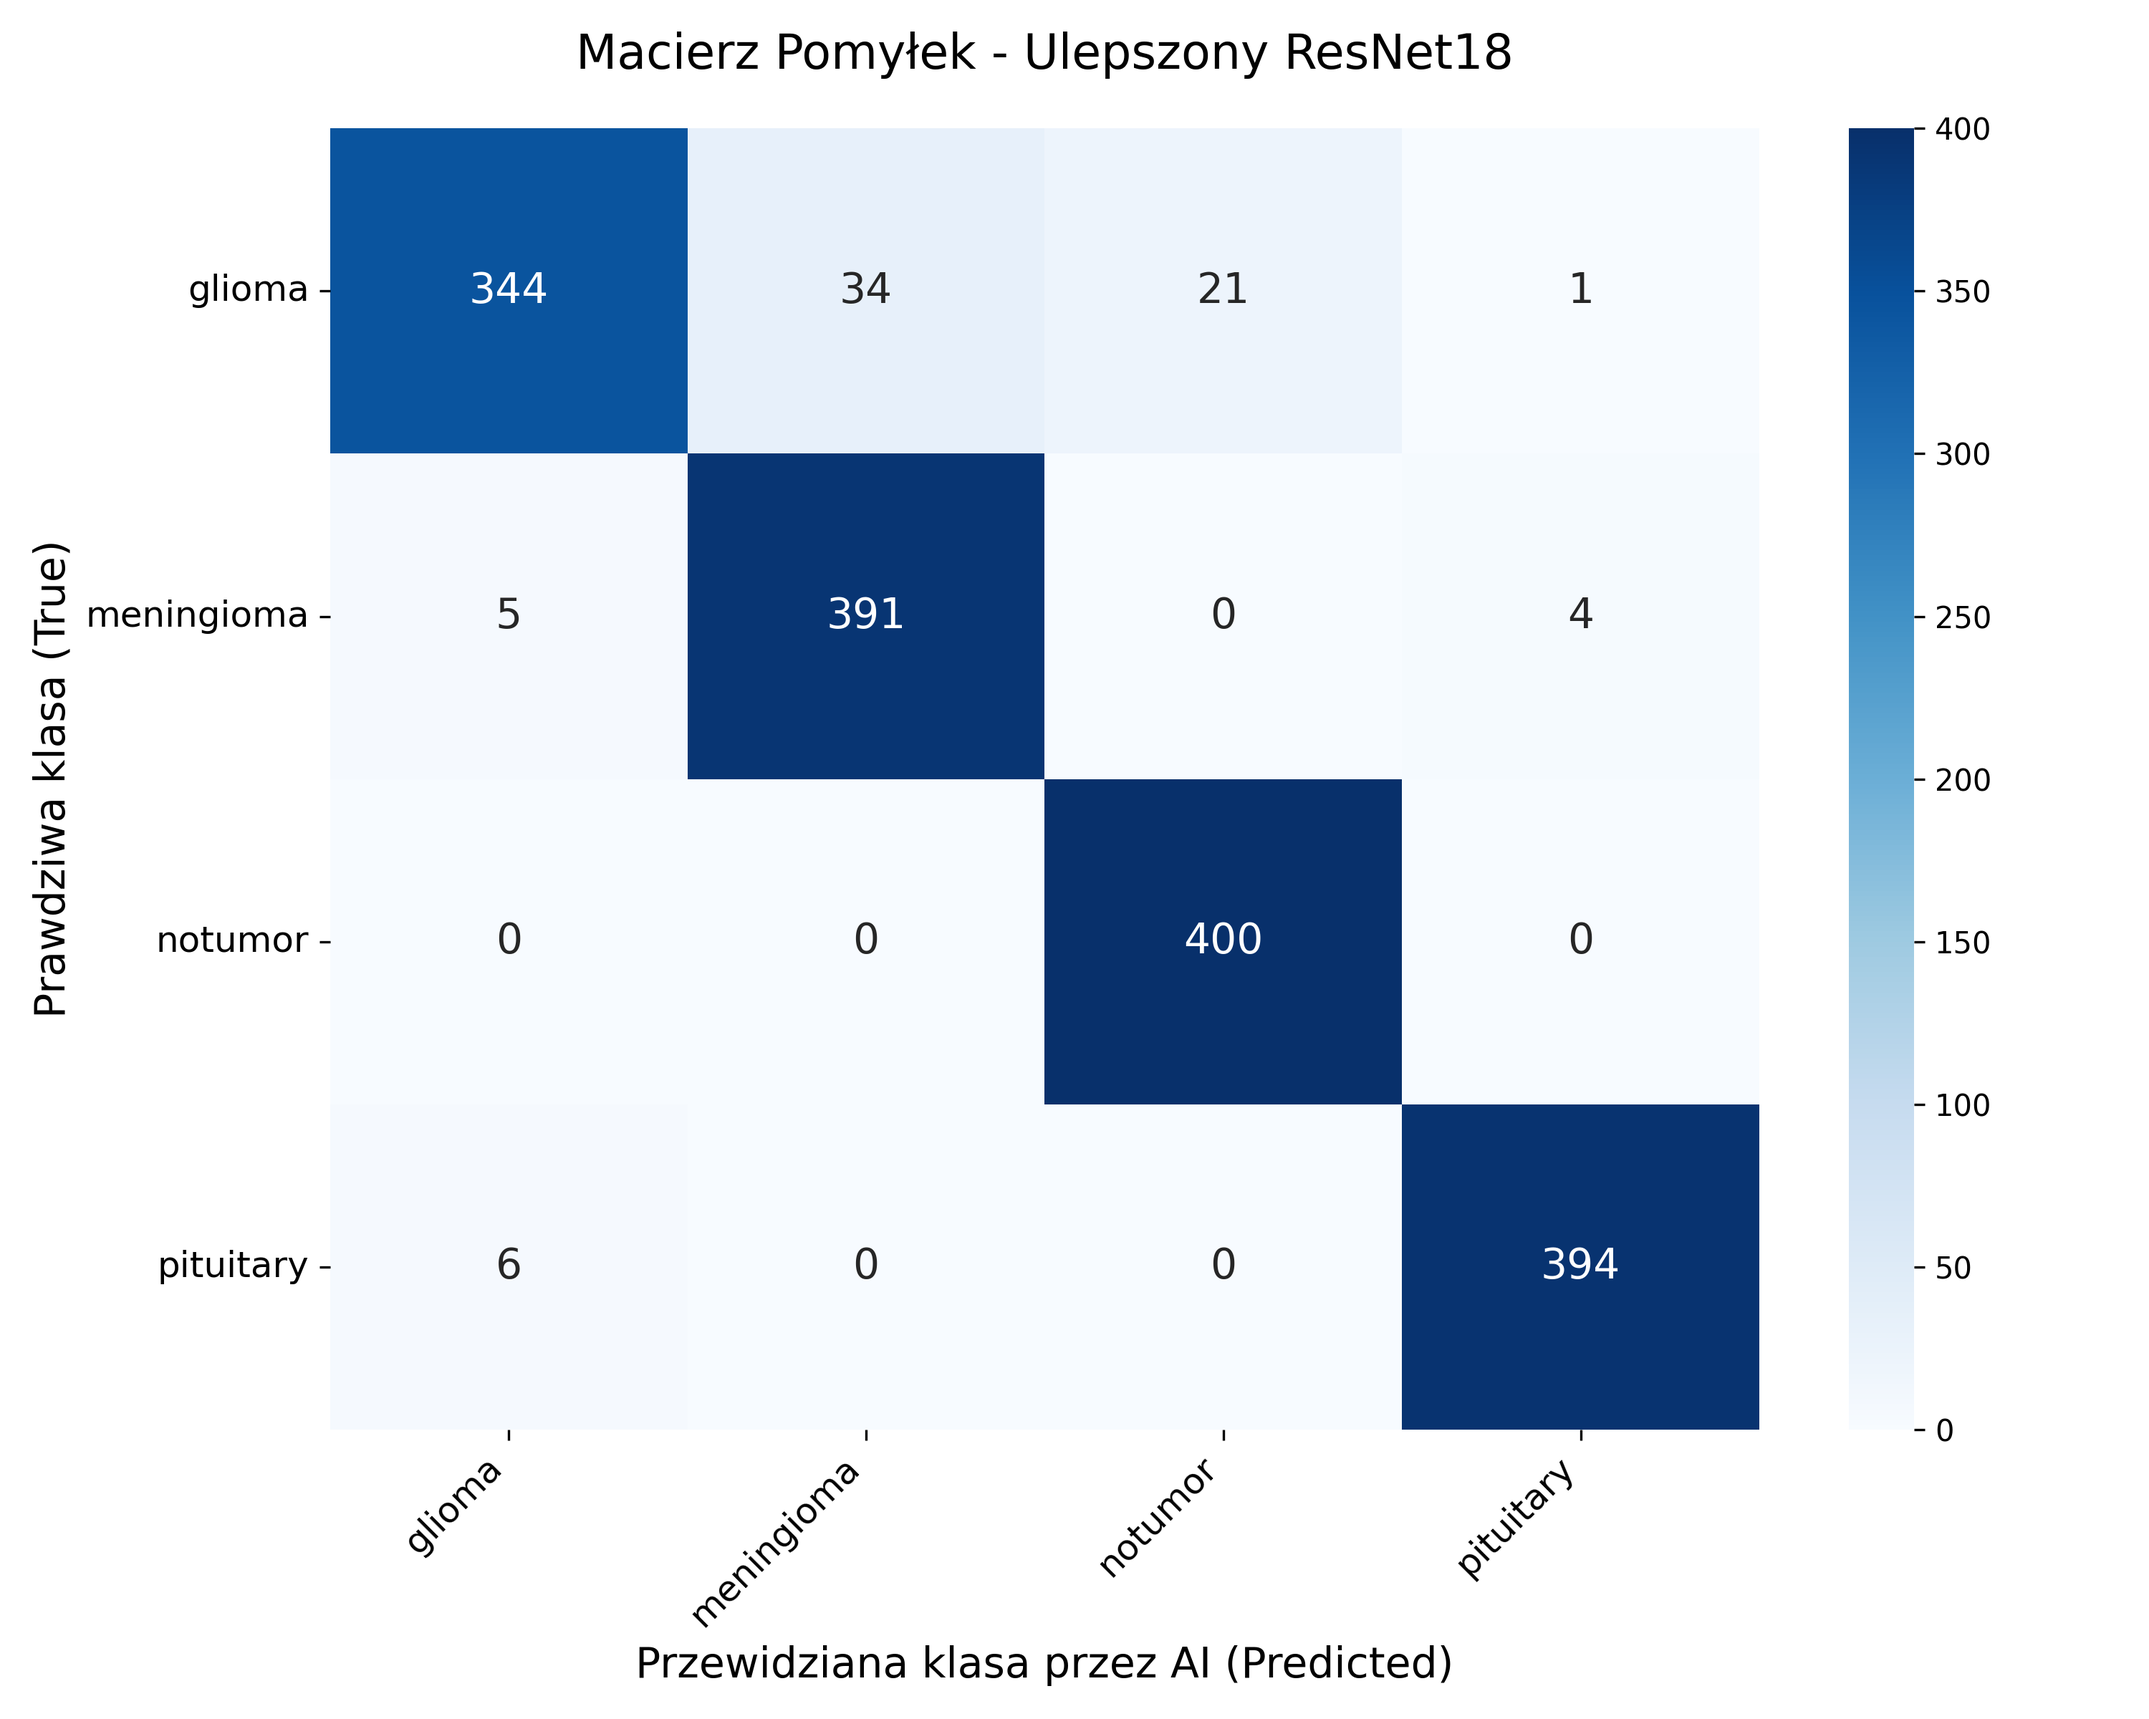
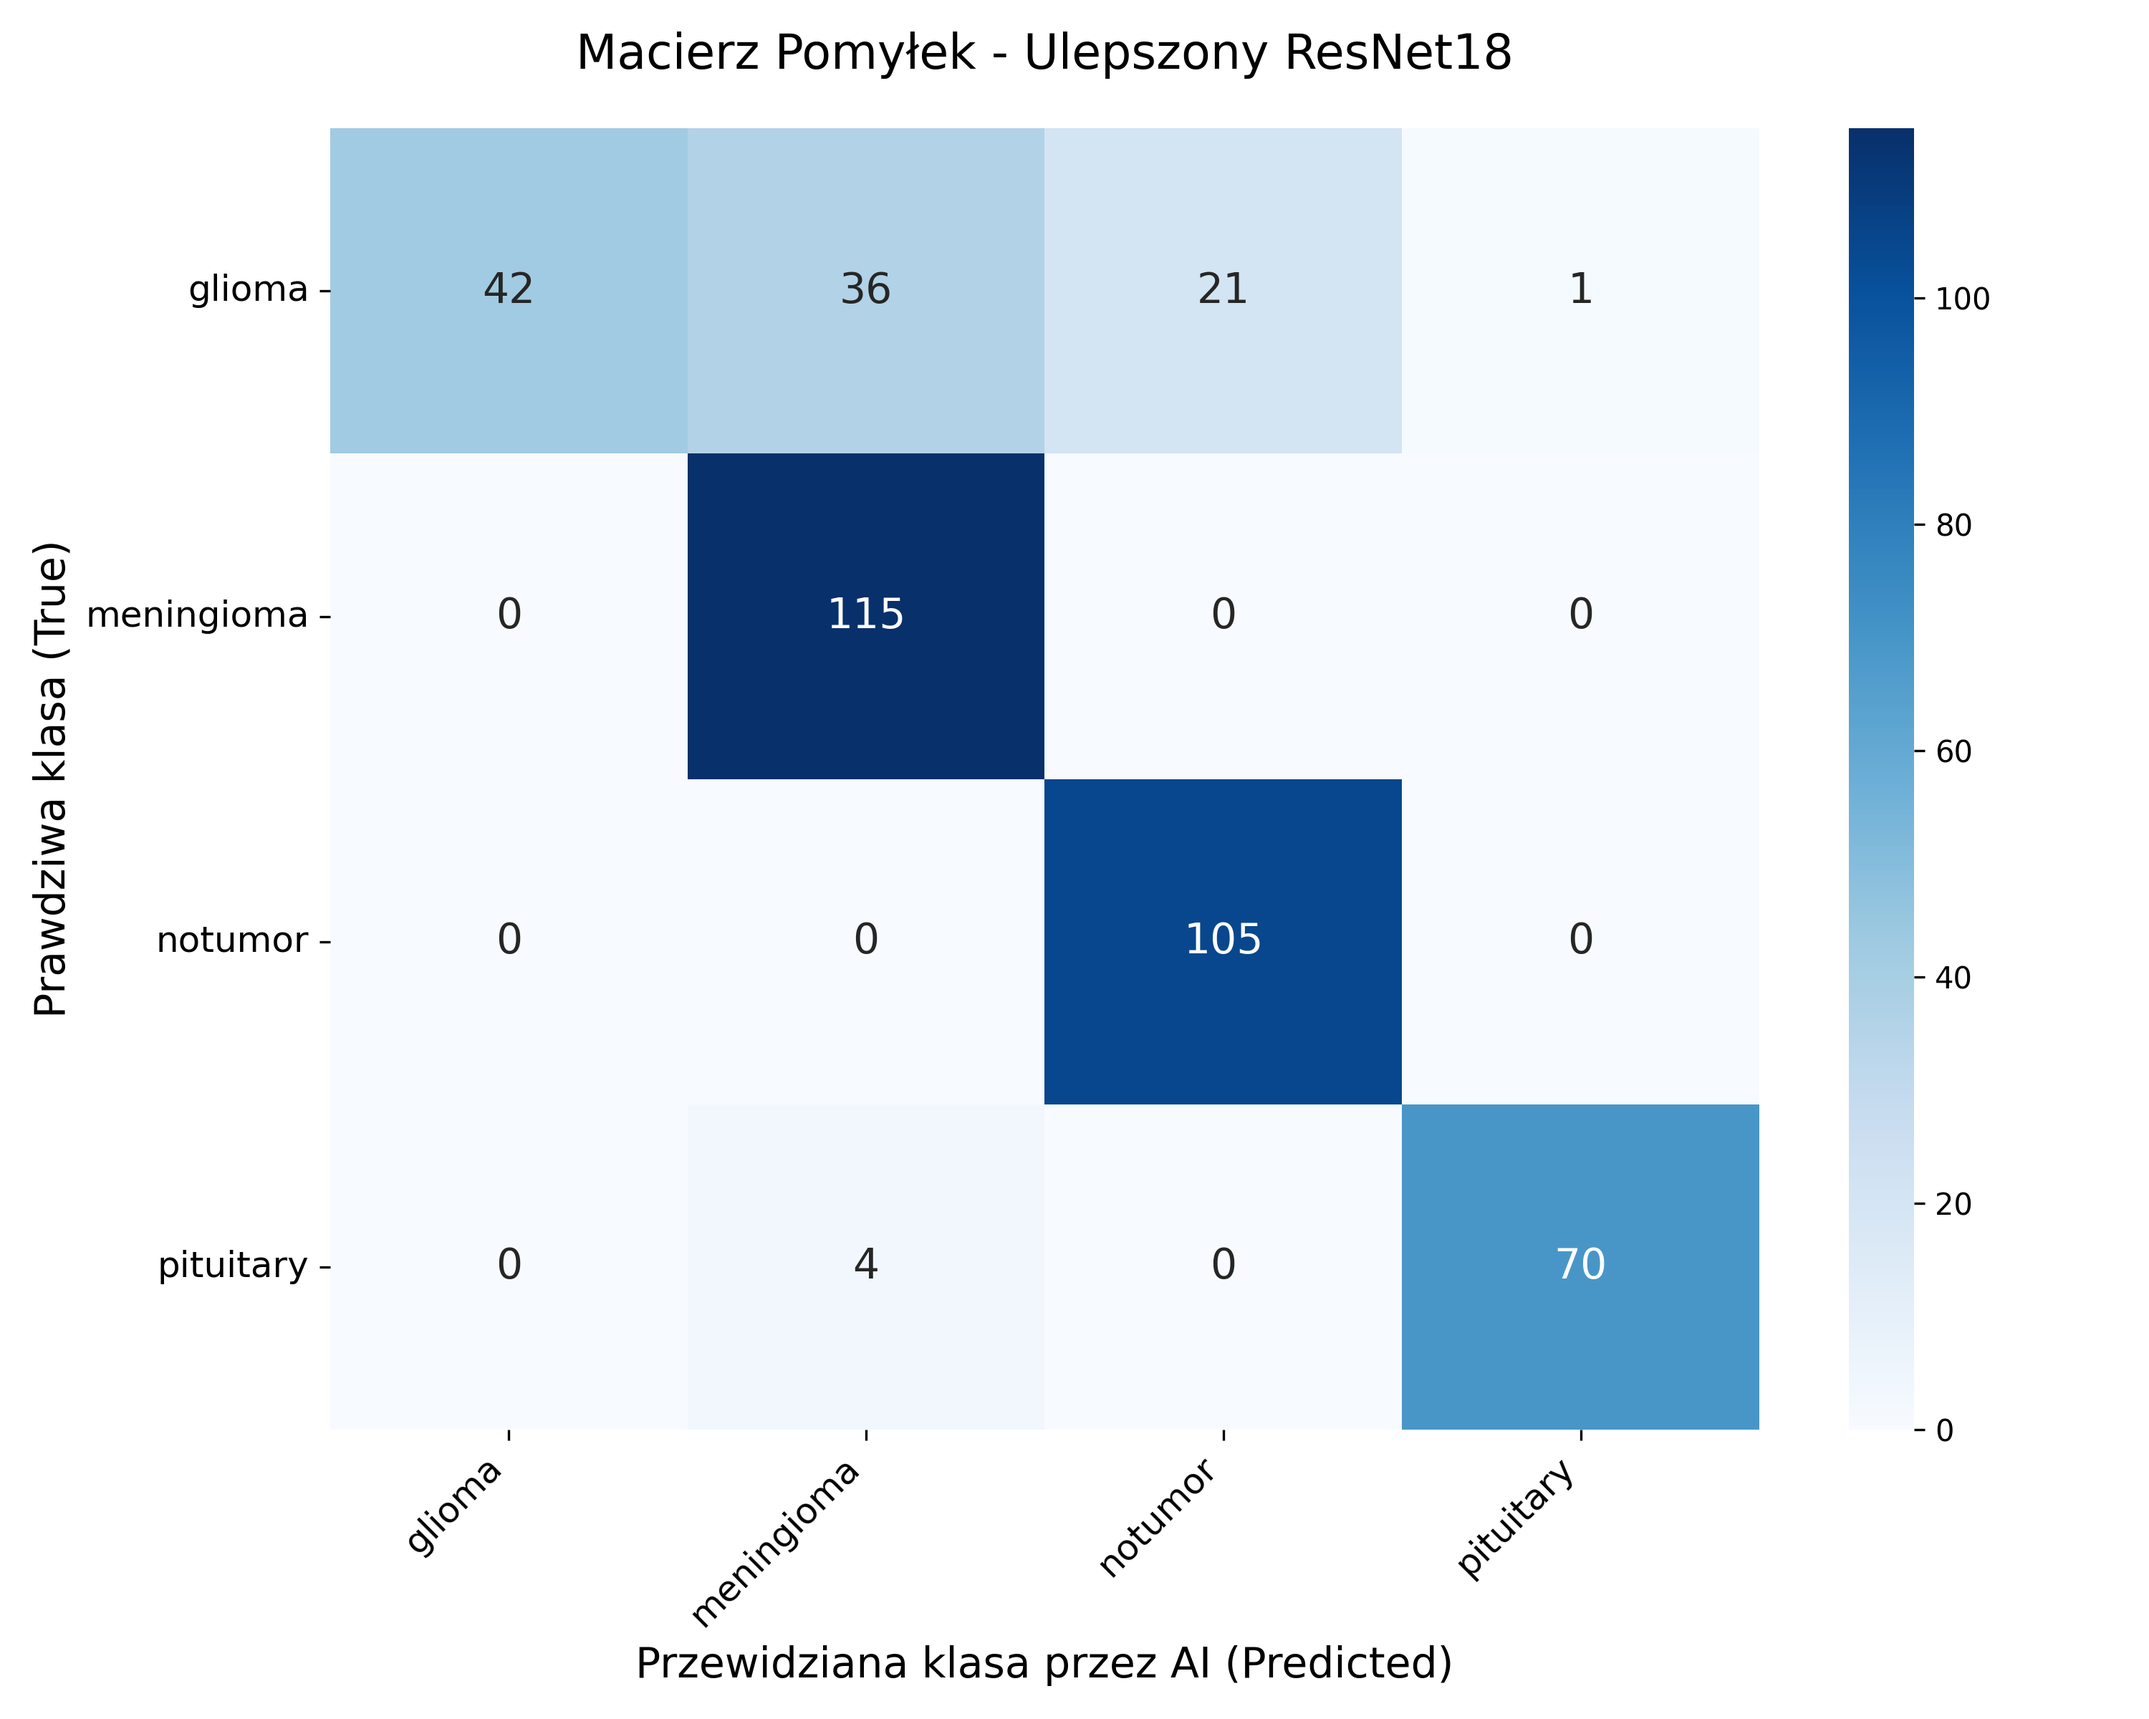
added vgg

diff --git a/ensemble_test.py b/ensemble_test.py
@@ -1,0 +1,143 @@
+import torch
+import torch.nn as nn
+import torch.nn.functional as F
+import torchvision.transforms.functional as F_t
+from torchvision import datasets, transforms, models
+import matplotlib.pyplot as plt
+import seaborn as sns
+from sklearn.metrics import confusion_matrix
+import numpy as np
+
+# 1. Konfiguracja
+device = torch.device("mps" if torch.backends.mps.is_available() else "cpu")
+print("Uruchamianie konsylium AI (ResNet18 + VGG16). Proszę czekać...")
+
+# 2. Baza danych (Tylko konwersja na tensor i kolory)
+transform_base = transforms.Compose([
+    transforms.Resize((512, 512)),
+    transforms.ToTensor(),
+    transforms.Normalize(mean=[0.485, 0.456, 0.406], std=[0.229, 0.224, 0.225])
+])
+
+test_dir = './BrainTumorData/Testing' 
+test_dataset = datasets.ImageFolder(test_dir, transform=transform_base)
+test_loader = torch.utils.data.DataLoader(test_dataset, batch_size=16, shuffle=False)
+
+nazwy_klas = test_dataset.classes
+print(f"Rozpoznane klasy: {nazwy_klas}")
+
+# ==========================================
+# 3. Wczytywanie Modelu 1: ResNet18 (512x512)
+# ==========================================
+print("Budzenie doktora ResNet18...")
+model_resnet = models.resnet18(weights=None)
+num_features_res = model_resnet.fc.in_features
+model_resnet.fc = nn.Sequential(
+    nn.Dropout(p=0.5),
+    nn.Linear(num_features_res, len(nazwy_klas))
+)
+model_resnet.load_state_dict(torch.load('moj_model_resnet18_512.pth', weights_only=True))
+model_resnet = model_resnet.to(device)
+model_resnet.eval()
+
+# ==========================================
+# 4. Wczytywanie Modelu 2: VGG16 (448x448)
+# ==========================================
+print("Budzenie doktora VGG16...")
+model_vgg = models.vgg16(weights=None)
+num_features_vgg = model_vgg.classifier[6].in_features
+model_vgg.classifier[6] = nn.Sequential(
+    nn.Dropout(p=0.5),
+    nn.Linear(num_features_vgg, len(nazwy_klas))
+)
+model_vgg.load_state_dict(torch.load('moj_model_vgg16_hd.pth', weights_only=True))
+model_vgg = model_vgg.to(device)
+model_vgg.eval()
+
+# ==========================================
+# 5. Wspólne diagnozowanie i zbieranie statystyk
+# ==========================================
+wszystkie_prawdziwe = []
+
+# Listy na odpowiedzi każdego modelu
+przewidziane_resnet = []
+przewidziane_vgg = []
+przewidziane_ensemble = []
+
+correct_resnet = 0
+correct_vgg = 0
+correct_ensemble = 0
+total = 0
+
+print("Rozpoczynam diagnozowanie zdjęć...")
+
+with torch.no_grad():
+    for inputs, labels in test_loader:
+        inputs, labels = inputs.to(device), labels.to(device)
+        
+        # Przygotowanie zdjęć pod konkretne modele w locie
+        inputs_resnet = F_t.resize(inputs, [512, 512])
+        inputs_vgg = F_t.resize(inputs, [448, 448])
+        
+        # ---------------- Diagnoza ResNet ----------------
+        wyjscie_resnet = model_resnet(inputs_resnet)
+        prawdopodobienstwa_resnet = F.softmax(wyjscie_resnet, dim=1)
+        _, pred_resnet = torch.max(wyjscie_resnet, 1)
+        
+        # ---------------- Diagnoza VGG ----------------
+        wyjscie_vgg = model_vgg(inputs_vgg)
+        prawdopodobienstwa_vgg = F.softmax(wyjscie_vgg, dim=1)
+        _, pred_vgg = torch.max(wyjscie_vgg, 1)
+        
+        # ---------------- Diagnoza ENSEMBLE ----------------
+        wynik_zespolowy = (prawdopodobienstwa_resnet *1.1 + prawdopodobienstwa_vgg *0.9) / 2.0
+        _, pred_ensemble = torch.max(wynik_zespolowy, 1)
+        
+        # Zapisywanie statystyk na żywo
+        total += labels.size(0)
+        correct_resnet += (pred_resnet == labels).sum().item()
+        correct_vgg += (pred_vgg == labels).sum().item()
+        correct_ensemble += (pred_ensemble == labels).sum().item()
+        
+        wszystkie_prawdziwe.extend(labels.cpu().numpy())
+        przewidziane_resnet.extend(pred_resnet.cpu().numpy())
+        przewidziane_vgg.extend(pred_vgg.cpu().numpy())
+        przewidziane_ensemble.extend(pred_ensemble.cpu().numpy())
+
+# Obliczanie skuteczności procentowej
+acc_resnet = 100 * correct_resnet / total
+acc_vgg = 100 * correct_vgg / total
+acc_ensemble = 100 * correct_ensemble / total
+
+print(f"\n================ PODSUMOWANIE ================")
+print(f"Skuteczność ResNet18: {acc_resnet:.2f}%")
+print(f"Skuteczność VGG16:    {acc_vgg:.2f}%")
+print(f"Skuteczność ENSEMBLE: {acc_ensemble:.2f}%")
+print("==============================================")
+
+# ==========================================
+# 6. Rysowanie i zapisywanie 3 Macierzy Pomyłek
+# ==========================================
+
+def narysuj_macierz(prawdziwe, przewidziane, nazwa_modelu, kolor, plik, skutecznosc):
+    cm = confusion_matrix(prawdziwe, przewidziane)
+    plt.figure(figsize=(10, 8))
+    sns.heatmap(cm, annot=True, fmt='d', cmap=kolor, 
+                xticklabels=nazwy_klas, yticklabels=nazwy_klas, annot_kws={"size": 14})
+    plt.title(f'Macierz Pomyłek - {nazwa_modelu} | Skuteczność: {skutecznosc:.2f}%', fontsize=15, pad=20)
+    plt.ylabel('Prawdziwa klasa (True)', fontsize=14)
+    plt.xlabel('Przewidziana klasa przez AI (Predicted)', fontsize=14)
+    plt.xticks(rotation=45, ha='right', fontsize=12)
+    plt.yticks(rotation=0, fontsize=12)
+    plt.tight_layout()
+    plt.savefig(plik, dpi=300)
+    plt.close() # Zamyka wykres, żeby kolejny narysował się na czysto
+
+print("Generowanie plików graficznych...")
+
+# Rysujemy 3 macierze w różnych kolorach dla łatwego odróżnienia
+narysuj_macierz(wszystkie_prawdziwe, przewidziane_resnet, "ResNet18", "Blues", "macierz_1_resnet.png", acc_resnet)
+narysuj_macierz(wszystkie_prawdziwe, przewidziane_vgg, "VGG16", "Greens", "macierz_2_vgg.png", acc_vgg)
+narysuj_macierz(wszystkie_prawdziwe, przewidziane_ensemble, "ENSEMBLE", "Purples", "macierz_3_ensemble.png", acc_ensemble)
+
+print("Sukces! Zapisano 3 pliki: macierz_1_resnet.png, macierz_2_vgg.png oraz macierz_3_ensemble.png")

diff --git a/trening_vgg16.py b/trening_vgg16.py
@@ -39,8 +39,11 @@ model = models.vgg16(weights=VGG16_Weights.IMAGENET1K_V1)
 for param in model.parameters():
     param.requires_grad = False
 
-# Fine-Tuning dla VGG16: Odmrażamy cały blok klasyfikatora (wszystkie warstwy gęste na końcu)
-# To pozwoli VGG16 lepiej zrozumieć wysoką rozdzielczość medyczną
+# GŁĘBOKI FINE-TUNING: Odmrażamy "oczy" VGG16 (od warstwy 24 w górę) - TEGO BRAKOWAŁO!
+for param in model.features[24:].parameters():
+    param.requires_grad = True
+
+# Odmrażamy cały blok klasyfikatora
 for param in model.classifier.parameters():
     param.requires_grad = True
 
@@ -59,13 +62,14 @@ model = model.to(device)
 # SYSTEM KAR (Class Weights) - Waga 3.0 dla 'glioma', 1.0 dla reszty
 # Uwaga: Musisz się upewnić, że 'glioma' to rzeczywiście klasa o indeksie 0 w dataset.classes
 # W standardowym datasecie Kaggle: 0-glioma, 1-meningioma, 2-notumor, 3-pituitary
-wagi_klas = torch.tensor([3.0, 1.0, 2.0, 1.0]).to(device)
+wagi_klas = torch.tensor([3.0, 1.0, 1.0, 1.0]).to(device)
 criterion = nn.CrossEntropyLoss(weight=wagi_klas)
 
-# Optymalizator z systemem weight_decay (kara za zbyt dużą pewność siebie)
-# Uczymy cały blok klasyfikatora (classifier) z wyznaczonym Learning Rate
-optimizer = optim.Adam(model.classifier.parameters(), lr=1e-4, weight_decay=1e-4)
-
+# ZMIANA W OPTYMALIZATORZE: Uczymy "oczy" bardzo powoli (1e-5), a klasyfikator normalnie (1e-4)
+optimizer = optim.Adam([
+    {'params': model.features[24:].parameters(), 'lr': 1e-5},
+    {'params': model.classifier.parameters(), 'lr': 1e-4}
+], weight_decay=1e-4)
 # 5. Pętla ucząca
 epochs = 20 # Zwiększono do 20, podobnie jak w ResNet18
 print(f"Rozpoczynamy trening na {epochs} epok!")

diff --git a/macierz_resnet.py b/macierz_resnet.py
@@ -17,8 +17,8 @@ transform = transforms.Compose([
     transforms.ToTensor(),
     transforms.Normalize(mean=[0.485, 0.456, 0.406], std=[0.229, 0.224, 0.225])
 ])
-
-test_dir = './BrainTumorData/Testing'
+# test_dir = './BrainTumorData/Testing'
+test_dir = '../archive/Testing'
 test_dataset = datasets.ImageFolder(test_dir, transform=transform)
 test_loader = torch.utils.data.DataLoader(test_dataset, batch_size=32, shuffle=False)
 
@@ -33,7 +33,8 @@ model.fc = nn.Sequential(
 )
 
 # Wczytujemy "mózg" zapisany z ostatniego, najlepszego treningu
-model.load_state_dict(torch.load('moj_model_resnet18.pth', weights_only=True))
+model.load_state_dict(torch.load('moj_model_resnet18_512.pth', weights_only=True))
+# model.load_state_dict(torch.load('moj_model_resnet18.pth', weights_only=True))
 model = model.to(device)
 model.eval()
 
